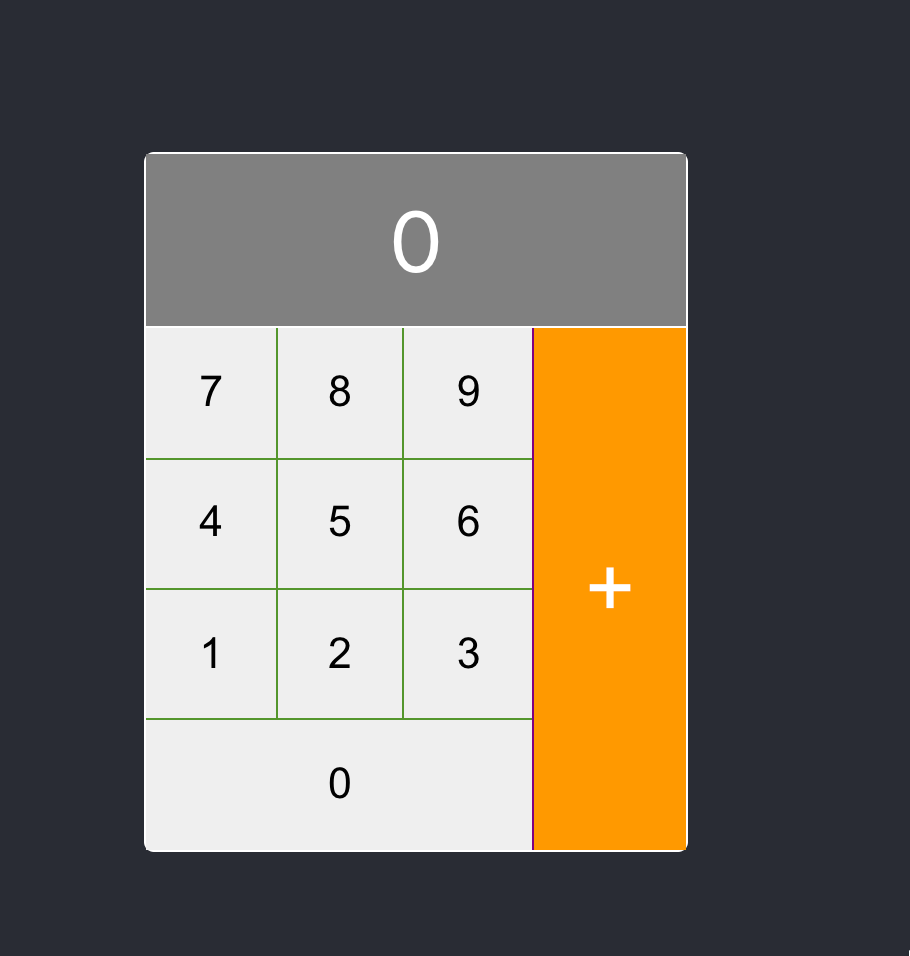
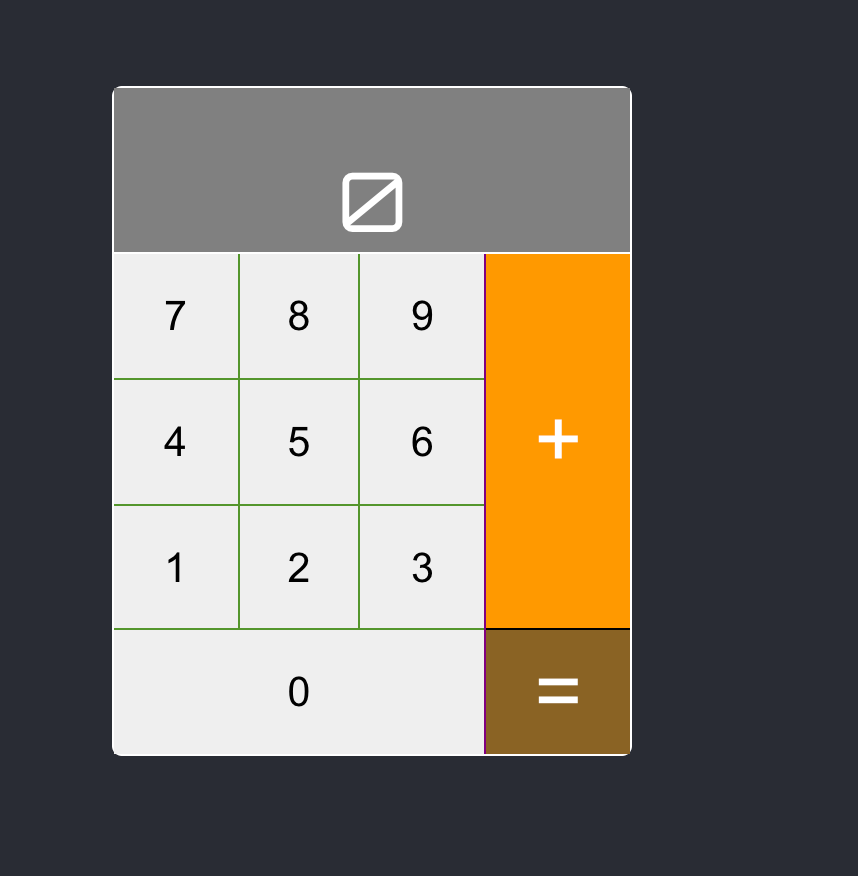
Adding stuff

diff --git a/front/src/App.js b/front/src/App.js
@@ -23,7 +23,7 @@ const NumberSection = ({numbers, sectionName, setCurrentNumber, currentNumber}) 
 
 const calculate = async (currentNumber, secondNumber, resetHandler, setShowModal) => {
     try {
-        const response = await fetch(`http://localhost:8000/calculator/plus/${currentNumber}/${secondNumber}`);
+        const response = await fetch(`${process.env.REACT_APP_BACKEND}/calculator/plus/${currentNumber}/${secondNumber}`);
         const json = await response.json();
         resetHandler(json.results);
     } catch (e) {

diff --git a/front/public/index.html b/front/public/index.html
@@ -5,6 +5,8 @@
     <link rel="icon" href="%PUBLIC_URL%/favicon.ico" />
     <meta name="viewport" content="width=device-width, initial-scale=1" />
     <meta name="theme-color" content="#000000" />
+      <link rel="preconnect" href="https://fonts.gstatic.com">
+<link href="https://fonts.googleapis.com/css2?family=Orbitron&display=swap" rel="stylesheet">
     <meta
       name="description"
       content="Web site created using create-react-app"

diff --git a/front/src/App.scss b/front/src/App.scss
@@ -43,10 +43,11 @@
   }
 
   .results {
+    font-family: 'Orbitron', sans-serif;
     height: 2em;
     display: flex;
     justify-content: center;
-    align-items: center;
+    align-items: flex-end;
     font-size: 1.5em;
     border-bottom: solid 1px white;
     background: gray;

diff --git a/README.md b/README.md
@@ -1,1 +1,30 @@
+# Dreamed DMS calculator demo application
+
 ![front-page.png](front-page.png)
+
+This is my dummy application for showing various ways to test web apps.
+
+## Set up
+
+### Front 🍕
+
+```bash
+cd front
+npm i
+npm start &
+```
+
+### Backend 🍣
+
+**Don't forget to create a virtual environment 👩🏼🏫.. or not what ever... 🤷♂**
+```bash
+pip install -r requirements.txt
+pythoh manager.py runserver
+```
+
+### Docker - TBD 🐳
+For now, there's an issue with connecting the front to the backend via docker. Not sure why.
+```bash
+docker-compose up -d 
+```
+
